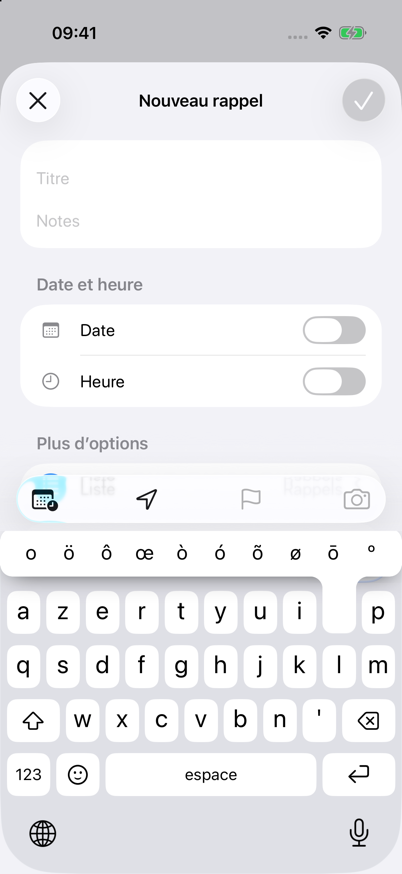
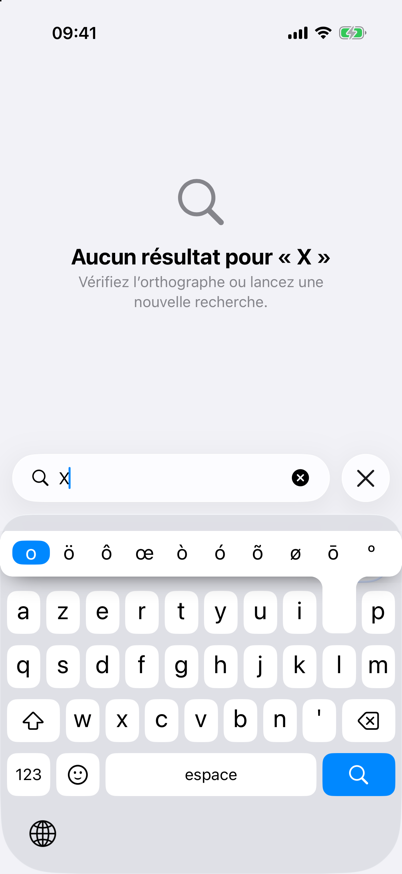
Verify map: a held letter released without an accent types it (refs #1089)
The typing.accents gotcha said the opposite, and AXe's timed holds overshoot
the popup's delay: say which commands hold for a precise time. Recapture
kbd.accent-popup with the held letter highlighted.

diff --git a/.claude/skills/verify-dictus-ios/features/typing.autocorrect.md b/.claude/skills/verify-dictus-ios/features/typing.autocorrect.md
@@ -15,7 +15,7 @@
 - `typing.undo-correction`: The suggestion bar offers to undo the last correction.
 - `typing.refused-correction`: Erasing into a correction, Undo, or tapping the quoted typed word refuses it: the word committed at that place next is kept and learned (#872). A text replacement shortcut is the exception: typed again at that place, it expands again (#1022).
 - `typing.auto-full-stop`: Double space inserts a full stop.
-- `typing.accents`: Long-press a letter for its accents. Each keyboard language has its own list, in the order Apple's keyboard for it shows them (#1042): French holds œ on `o` (`o ö ô œ ò ó õ ø ō º`) and æ on `a` (`a à â æ á ä ã å ā ª`), so `cœur` types by hand; shift or caps lock capitalizes them (Œ, Æ, ẞ). German on QWERTY or AZERTY holds ä ö ü first on a o u (QWERTZ has keys for them), Spanish holds ñ first on n. The French adaptive key (AZERTY row 3) is unchanged and holds nothing. A word typed with œ or æ is kept on space, capitals included (`cœur`, `Œil`, `vitæ`, `ex æquo`): the dictionaries spell the ligatures out (`coeur`), and the corrector looks a typed one up that way (`Ligature`, #1042). `coeur` typed with two letters is kept too, as before.
+- `typing.accents`: Long-press a letter for its accents; released without picking one, the held letter is typed, as on Apple's (#1089). Each keyboard language has its own list, in the order Apple's keyboard for it shows them (#1042): French holds œ on `o` (`o ö ô œ ò ó õ ø ō º`) and æ on `a` (`a à â æ á ä ã å ā ª`), so `cœur` types by hand; shift or caps lock capitalizes them (Œ, Æ, ẞ). German on QWERTY or AZERTY holds ä ö ü first on a o u (QWERTZ has keys for them), Spanish holds ñ first on n. The French adaptive key (AZERTY row 3) is unchanged and holds nothing. A word typed with œ or æ is kept on space, capitals included (`cœur`, `Œil`, `vitæ`, `ex æquo`): the dictionaries spell the ligatures out (`coeur`), and the corrector looks a typed one up that way (`Ligature`, #1042). `coeur` typed with two letters is kept too, as before.
 - `typing.dead-keys`: Dead keys compose accented letters.
 - `typing.autocorrect-toggle`: « Correction automatique » switch in Réglages → Clavier.
 - `typing.spatial-autocorrect`: test builds only (Debug, TestFlight), off by default (#1011). With the Experiments page's "Spatial autocorrect" switch on (App Group key `dictus.keyboard.spatialAutocorrect`, read at each keyboard appearance; ignored in the App Store build), the space bar reads where the finger landed on each key of the word (Hex's noisy-channel decoder, models `fr.hextm`, `en.hextm`, `es.hextm` and `de.hextm`) before the trie reads its letters: `trouce` with the `c` tapped on the edge of `v` becomes `trouve`, `jusge` becomes `juste`, a missed space splits (`donnequoi` → `donne quoi`). It runs after the lexicon, the overrides and the contractions, never on a learned word, and leaves the word to the trie when it keeps it. The Debug log prints `AUTOCORRECT branch=spatial`; each appearance logs `spatialAutocorrectConfigured on=… channel=… trigger=…`.
@@ -75,6 +75,6 @@ Measured 2026-11-24 (iPhone 17, iOS 26.5, #977), Rappels title, every key tapped
 - `axe type` does not exercise autocorrect: it sends hardware keyboard events that reach the field without going through the extension. `drive.sh type` taps the Dictus keys instead (lowercase a–z, AZERTY letters page, offsets measured on iPhone 17).
 - `typing.contacts-and-replacements`: create the contact in Contacts and the replacement in Réglages → Général → Clavier → Remplacement, then make the keyboard reappear: the lexicon is read in `viewWillAppear`. The Debug log prints `NOTE lexicon loaded: <n> shortcuts, <n> words`, then `AUTOCORRECT-SKIP ... reason=lexicon` or `AUTOCORRECT branch=lexicon`. Measured 2026-10-30 on iOS 27.0 (#873).
 - `typing.contacts-and-replacements` with autocorrect off: write `dictus.autocorrectEnabled -bool NO` and `dictus.autocorrectDebugLogging -bool YES` into the App Group plist, type the shortcut and space. The log carries `AUTOCORRECT branch=text-replacement`, a line written only when autocorrect did not run. Measured 2026-11-21 (iPhone 17, iOS 26.5, #1022) in a Rappels title, without Full Access: `jrv` + space → `J’arrive ! `. `jrv` → « J’arrive ! » is iOS's own French replacement, present on a fresh device. On that runtime Réglages → Général → Clavier stayed blank, slimmed or not (Settings logs `PreferencesPluginError`), so no replacement could be added by hand that day.
-- `typing.accents`: the popup selects only once the finger moves onto an option; a hold released where it started types nothing (vendored behaviour). `axe batch` touch down / up therefore never inserts: use `axe drag --hold`. The first hold after the keyboard reappears or a language switch sometimes shows the key preview without a popup (seen twice on 2026-11-24); hold again. The feel of a long row of narrowed options under a real finger is iPhone-only.
+- `typing.accents`: the popup opens with the key's own letter highlighted, and a hold released without moving onto an accent types that letter, as Apple's does (#1089; until then it typed nothing). Released more than half a key below the held key, it types nothing (Apple's line, measured 2026-11-27 on iOS 26.5: its « E » held 0.8 s then lifted 53 pt below the key's centre typed it, 56 pt below did not; Dictus's: 53 pt typed, 60 pt did not). `axe batch` touch down / up never inserts, and `axe touch --down --up --delay` or `axe tap --hold` overshoot the hold by more than the popup's 0.5 s: to hold for a precise time use `axe swipe` with a 0.5 pt drift and `--duration`, to hold then slide use `axe drag --hold`. Selected-input moves (`--contact-token`) were interrupted on 2026-11-27 (« Feed closed ») and left the device's input quarantined and a ghost touch down until a reboot. The first hold after the keyboard reappears or a language switch sometimes shows the key preview without a popup (seen twice on 2026-11-24); hold again. The feel of a long row of narrowed options under a real finger is iPhone-only.
 - Host spell-check underlines are not a usable probe in the simulator (`docs/agents/simulator.md` §8).
 - A refusal is remembered per place in the current document, in RAM, until the text before it is erased. Clearing a field by backspace forgets it; the field emptied by the host (a sent message) may not, if the host keeps the same `documentIdentifier`.

diff --git a/.claude/skills/verify-dictus-ios/features/screens.md b/.claude/skills/verify-dictus-ios/features/screens.md
@@ -54,7 +54,7 @@ Captures are in [`docs/agents/screens/`](../../../../docs/agents/screens/), one 
 | `app.pro.trial-announcement` | Reverse-trial announcement sheet | « C'est prêt » → « Commencer » on a fresh install (`kind=newUser`); or Réglages → Developer → « Forget the trial » + « Forget What's new », relaunch, end of What's new (`kind=existingUser`) | pro.subscription | [oui](../../../../docs/agents/screens/app.pro.trial-announcement.png) |
 | `app.voice-note.result` | Voice-note result cards | share an audio file to Dictus (no messaging app in the simulator) | voice-notes | non |
 | `kbd.keys` | Dictus keyboard, letters (AZERTY), toolbar with ☰ and mic | full-access, select-keyboard | dictation.keyboard, typing.autocorrect | [oui](../../../../docs/agents/screens/kbd.keys.png) |
-| `kbd.accent-popup` | Long-press popup on a letter, one row: the key's own letter, then its language's accents in Apple's order (French `o`: o ö ô œ ò ó õ ø ō º); ten or more options narrow to fit (#1042) | select-keyboard, then hold a letter (`axe batch` touch down / sleep 1.6 / up), screenshot while held | typing.autocorrect | [oui](../../../../docs/agents/screens/kbd.accent-popup.png) |
+| `kbd.accent-popup` | Long-press popup on a letter, one row: the key's own letter, highlighted until the finger moves onto an accent (#1089), then its language's accents in Apple's order (French `o`: o ö ô œ ò ó õ ø ō º); ten or more options narrow to fit (#1042) | select-keyboard, then hold a letter (`axe swipe` from the key to 0.5 pt beside it, `--duration 4`), screenshot while held | typing.autocorrect | [oui](../../../../docs/agents/screens/kbd.accent-popup.png) |
 | `kbd.no-full-access` | Keyboard bar « Accès complet requis », mic greyed | select-keyboard before full-access | dictation.keyboard | [oui](../../../../docs/agents/screens/kbd.no-full-access.png) |
 | `kbd.dictation-error` | Keyboard after a mic tap with no model (failure message) | kbd mic with no model installed (proof run) | dictation.keyboard | [oui](../../../../docs/agents/screens/kbd.dictation-error.png) |
 | `kbd.recovered-transcription` | Keyboard bar « Dictée interrompue. Votre texte est dans l'app Dictus. » in accent blue, mic right, no ☰ | set-default dictus.recoveredTranscription -string "…", then show the keyboard (#860) | dictation.keyboard | [oui](../../../../docs/agents/screens/kbd.recovered-transcription.png) |
